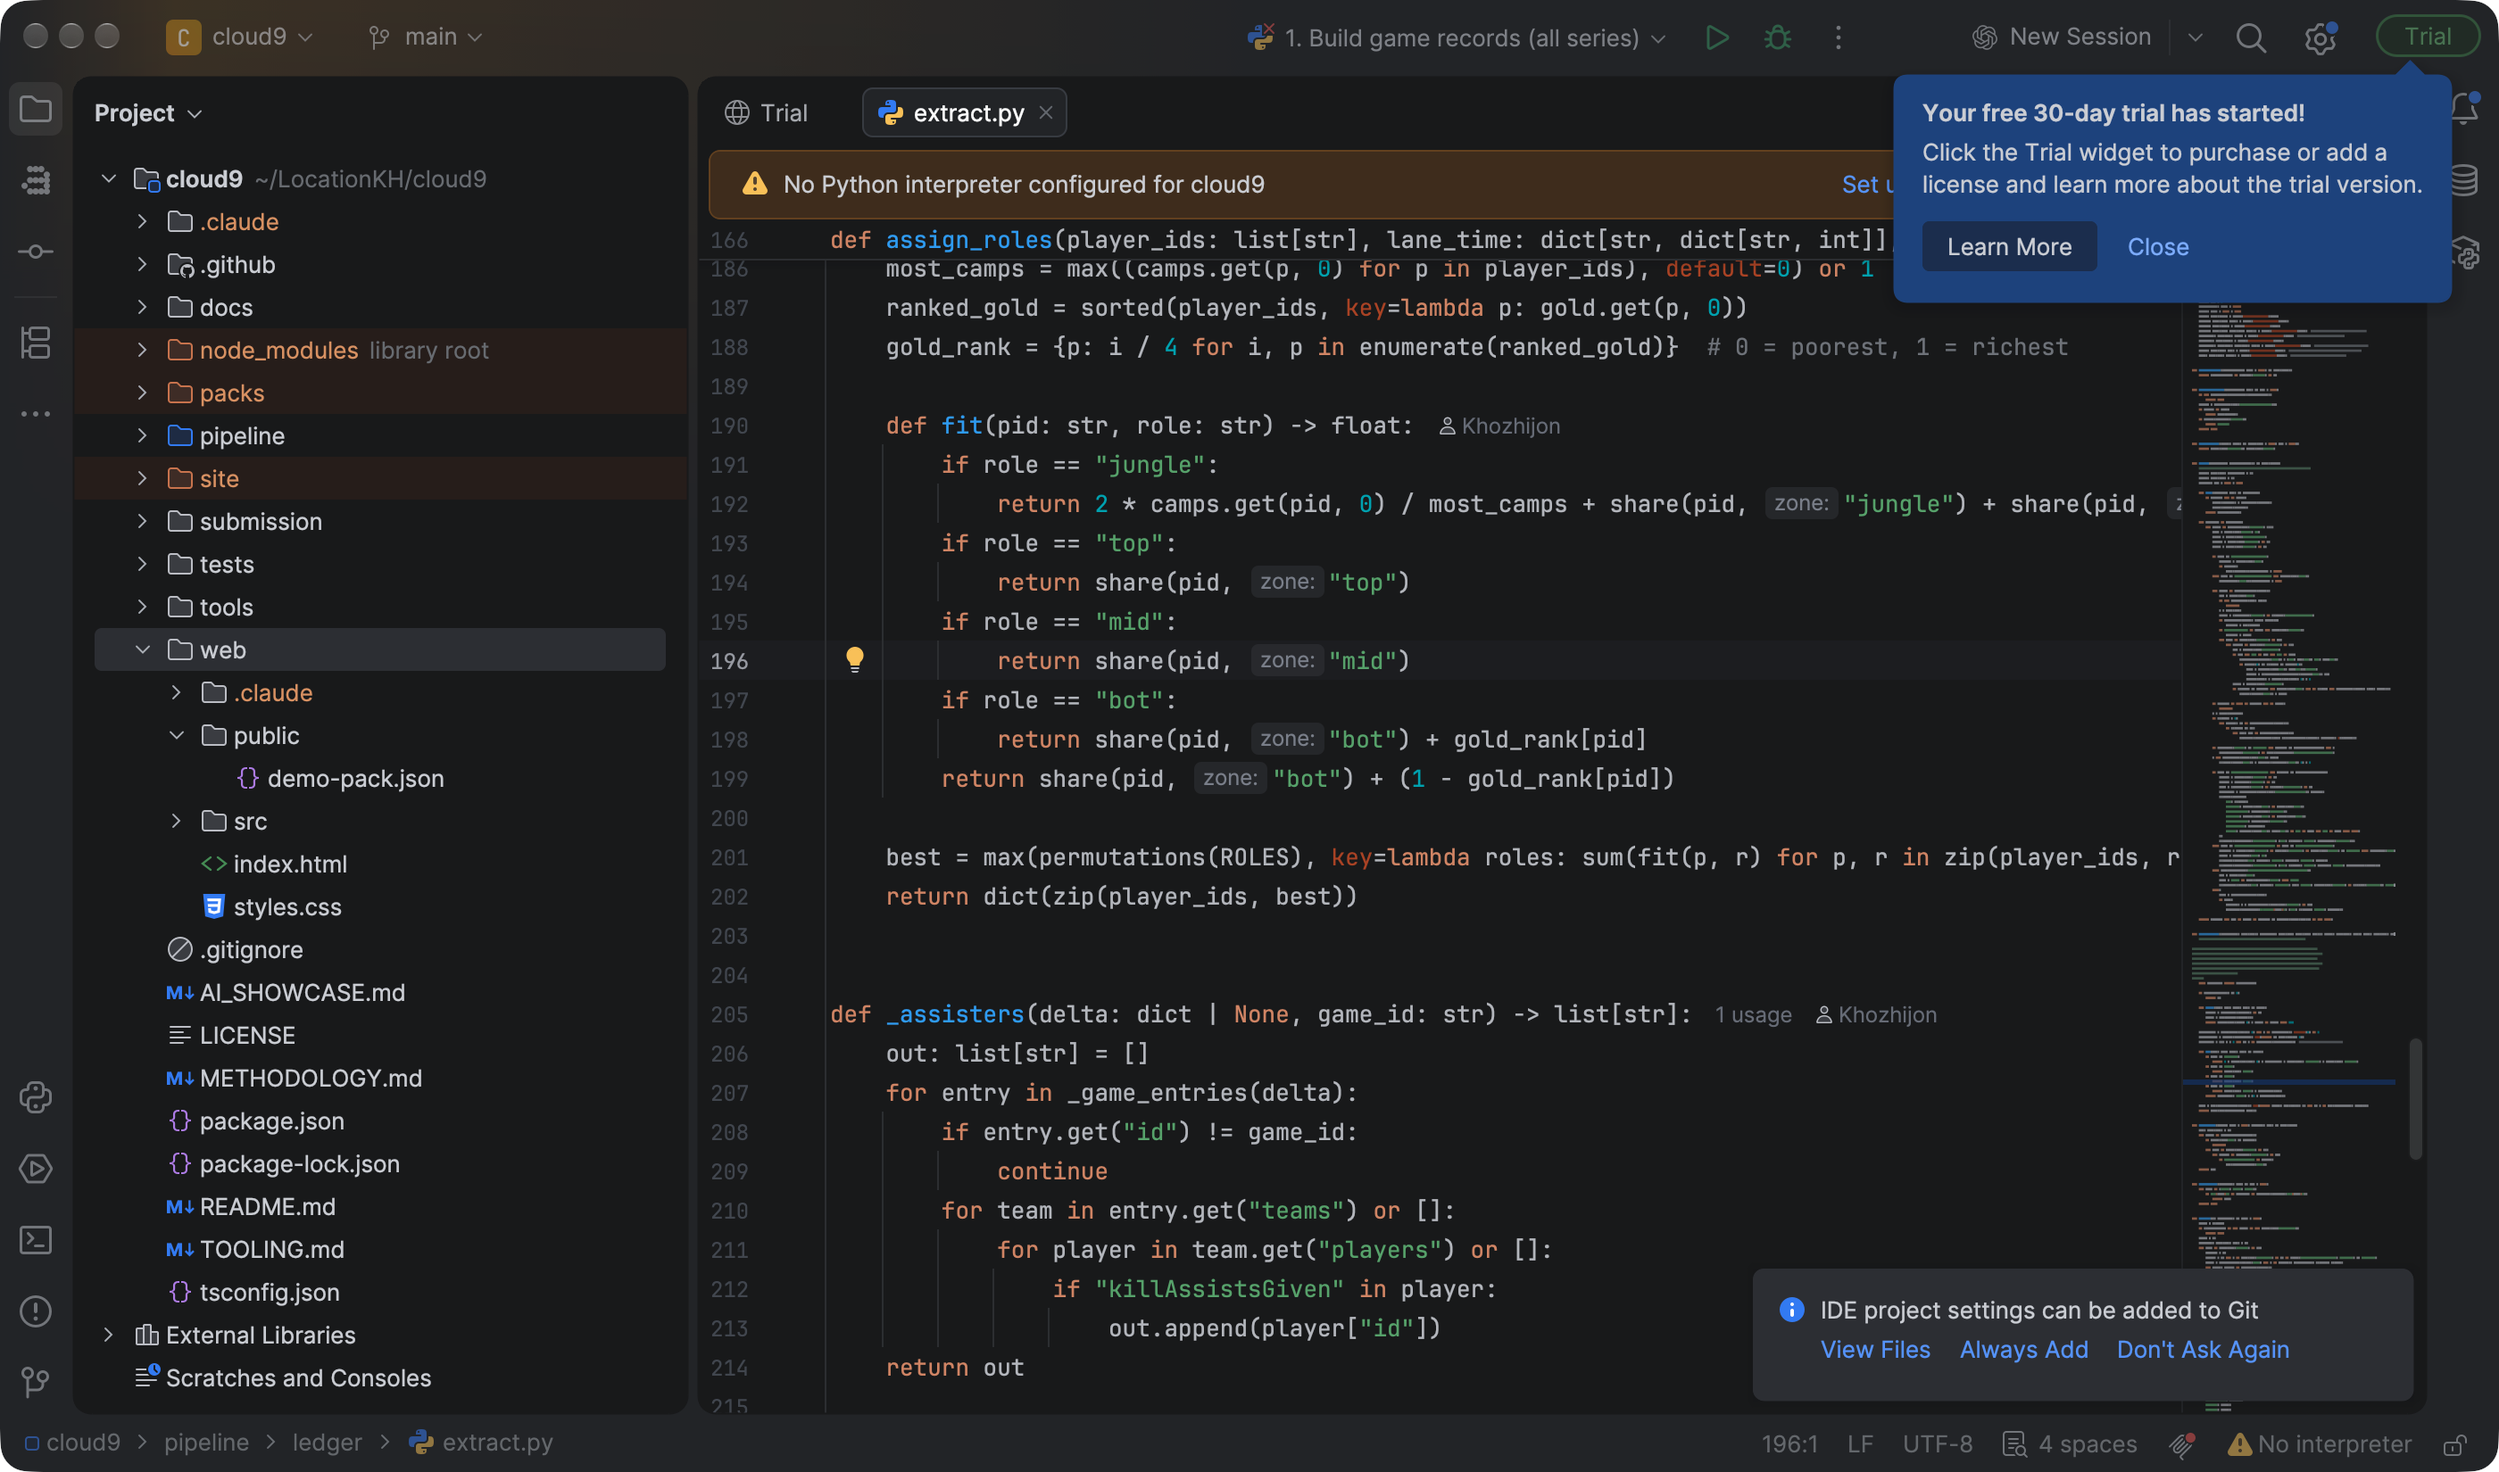
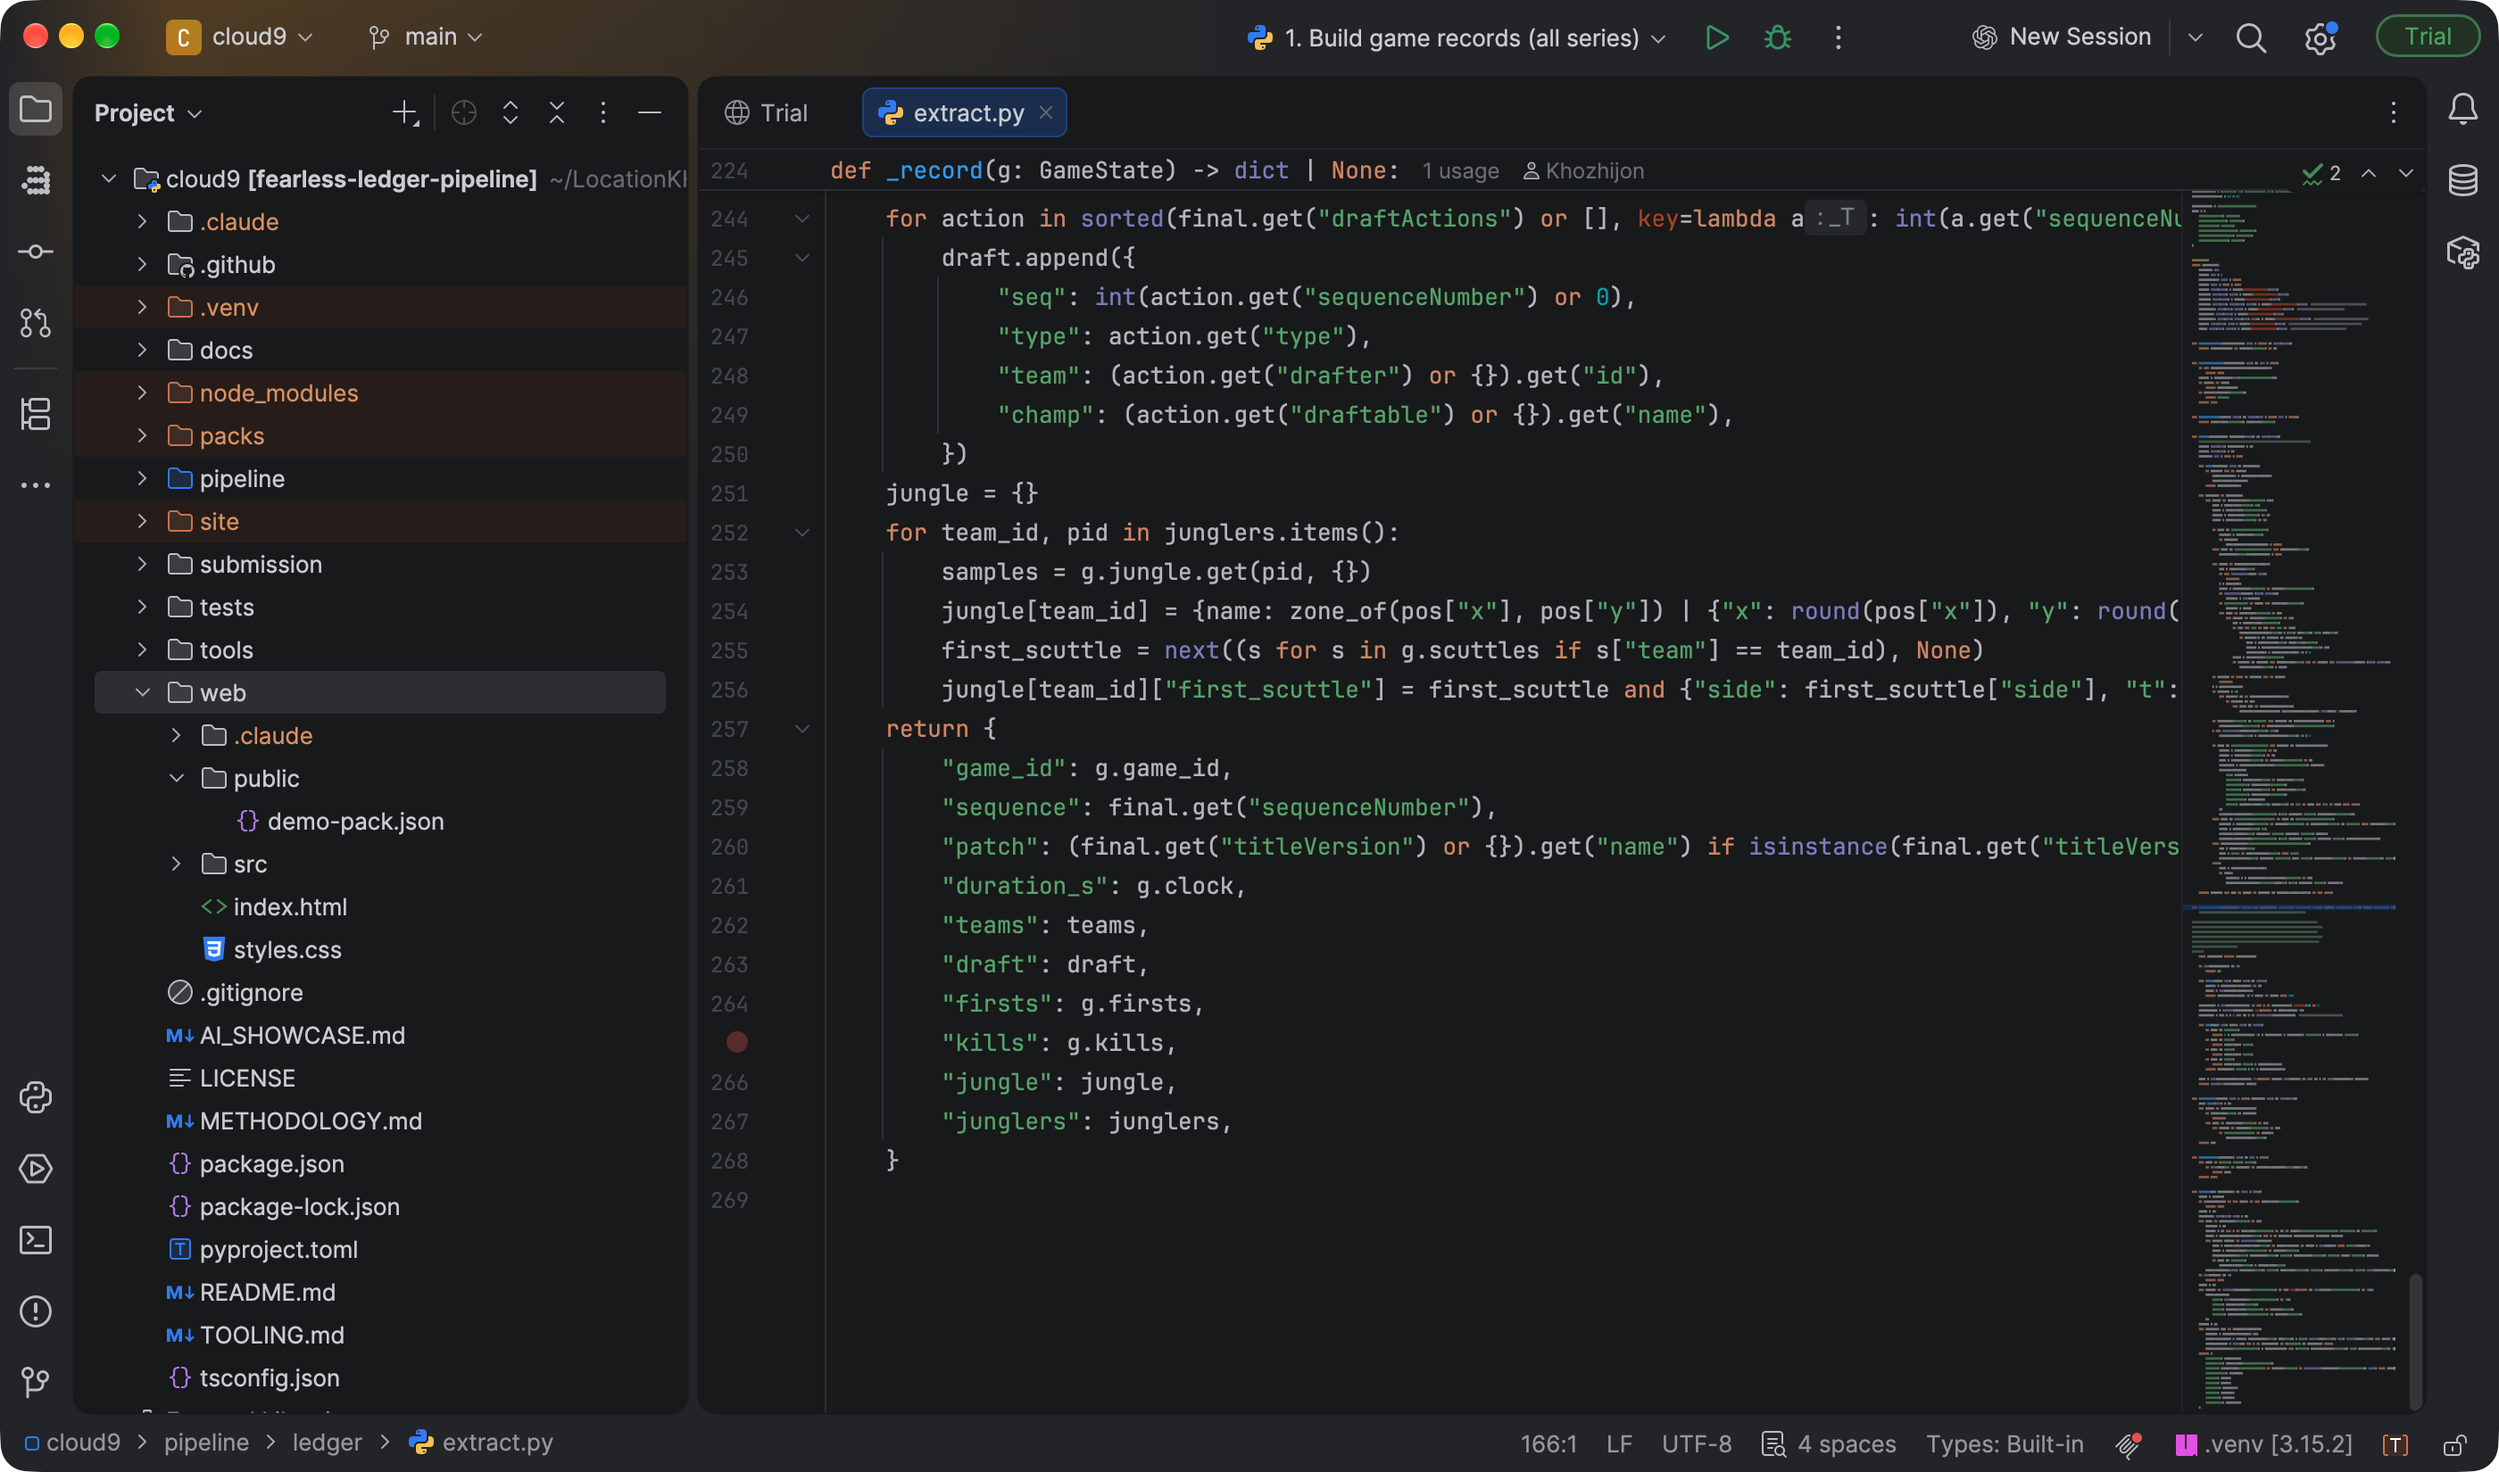
Demo video tooling (narration, recording, mux), PyCharm run screenshot, docs

diff --git a/tools/video/slides.html b/tools/video/slides.html
@@ -1,0 +1,70 @@
+<!doctype html>
+<html lang="en">
+<head>
+<meta charset="utf-8">
+<title>Fearless Ledger slides</title>
+<style>
+  :root { --bg:#0a0f1a; --panel:#111a2a; --line:#24324a; --text:#e6edf7; --muted:#8d9bb3; --accent:#67c6ff; --warn:#ffb454; }
+  * { box-sizing: border-box; }
+  html, body { margin:0; height:100%; background:var(--bg); color:var(--text); font:20px/1.45 ui-sans-serif, system-ui, -apple-system, sans-serif; }
+  section { display:none; height:100vh; padding:56px 72px 120px; flex-direction:column; justify-content:center; gap:22px; }
+  section.on { display:flex; }
+  .logo { width:72px; height:72px; border-radius:16px; background:var(--accent); color:#06121f; font-weight:800; font-size:34px; display:grid; place-items:center; }
+  h1 { font-size:56px; margin:0; letter-spacing:-.01em; }
+  h2 { font-size:38px; margin:0; }
+  p { margin:0; color:var(--muted); font-size:24px; max-width:1000px; }
+  .stats { display:flex; gap:18px; margin-top:12px; }
+  .stats div { background:var(--panel); border:1px solid var(--line); border-radius:12px; padding:14px 20px; }
+  .stats b { display:block; font-size:34px; color:var(--text); }
+  .stats span { color:var(--muted); font-size:17px; }
+  .row { display:flex; gap:28px; align-items:center; }
+  .shot { width:640px; border-radius:12px; border:1px solid var(--line); box-shadow:0 12px 40px rgba(0,0,0,.5); }
+  ol { margin:0; padding-left:26px; font-size:21px; color:var(--text); }
+  li { margin:8px 0; }
+  li small { color:var(--muted); font-size:17px; display:block; }
+  .tag { color:var(--accent); font-weight:700; text-transform:uppercase; letter-spacing:.1em; font-size:15px; }
+  .big { font-size:30px; color:var(--text); }
+  .url { color:var(--accent); font-size:34px; font-weight:700; }
+</style>
+</head>
+<body>
+<section id="title">
+  <div class="row"><div class="logo">FL</div><div><h1>Fearless Ledger</h1><p>Draft and early-macro scouting for Cloud9 Kia's League of Legends coaches</p></div></div>
+  <div class="stats">
+    <div><b>745</b><span>GRID series</span></div>
+    <div><b>1,739</b><span>pro games, 2025–26</span></div>
+    <div><b>142</b><span>Cloud9 Kia games</span></div>
+    <div><b>44</b><span>teams scouted</span></div>
+  </div>
+  <p class="tag">Cloud9 × JetBrains “Sky's The Limit” · Category 2: LoL macro scouting and draft management</p>
+</section>
+<section id="problem">
+  <p class="tag">The problem</p>
+  <h2>Fearless Draft: a champion picked in one game is gone for the rest of the series.</h2>
+  <p class="big">What do they first-pick? What do they ban, and when? What does each player still have in game 4? Where does their jungler go at 3:15?</p>
+  <p>Today a coaching staff answers this with VOD review and a spreadsheet. Fearless Ledger answers it from the official match data, and shows how many games every number rests on.</p>
+</section>
+<section id="built">
+  <p class="tag">How it is built</p>
+  <div class="row">
+    <img class="shot" src="../../submission/pycharm-run.png" alt="PyCharm running the pipeline">
+    <ol>
+      <li>Replay every GRID event feed<small>draft, players, first objectives, early kills, jungle path</small></li>
+      <li>Infer roles from the first 8 minutes<small>inferred jungler takes the first scuttle in 99.5% of games</small></li>
+      <li>Aggregate per team, period and side<small>public demo: counts and rates only</small></li>
+      <li>PyCharm: run configurations, interpreter, inspections<small>35 findings → fixed (docs/pycharm-inspections.md)</small></li>
+    </ol>
+  </div>
+</section>
+<section id="close">
+  <div class="row"><div class="logo">FL</div><h1>Fearless Ledger</h1></div>
+  <p class="url">khozhijon.github.io/fearless-ledger</p>
+  <p class="big">github.com/Khozhijon/fearless-ledger · MIT licence</p>
+  <p>Built with PyCharm and Claude Code. Match data provided by GRID; the data stays local and the demo shows aggregates only. League of Legends is a trademark of Riot Games. Not endorsed by Riot Games, Cloud9 or GRID.</p>
+</section>
+<script>
+  const id = new URLSearchParams(location.search).get('s') || 'title'
+  document.getElementById(id)?.classList.add('on')
+</script>
+</body>
+</html>

diff --git a/TOOLING.md b/TOOLING.md
@@ -11,7 +11,7 @@ feeds into everything the app shows. The `.idea/` folder is committed so the set
 | What | Where | What it did |
 |---|---|---|
 | Project model | `.idea/fearless-ledger-pipeline.iml`, `.idea/modules.xml`, `.idea/misc.xml`, `pyproject.toml` | `pipeline/` is a source root, `pipeline/tests/` a test root, and the derived-data folder `packs/`, `node_modules/`, `site/` and `.venv/` are excluded from indexing. PyCharm picked up `pyproject.toml` and the project's `.venv` (Python 3.15, created with uv) as the interpreter by itself. |
-| Run configurations | `.idea/runConfigurations/*.xml` | One per pipeline step: "1. Build game records" (all 745 series), "1a. Build sample (20 series, for debugging)", "2. Public demo pack (aggregates only)", "3. Local pack (every team, with game lists)", and "Pipeline tests" (unittest). They set `STL_DATA_DIR` to the data clone next to the project, so the licensed data is read in place and never enters the repository. |
+| Run configurations | `.idea/runConfigurations/*.xml` | One per pipeline step: "1. Build game records" (all 745 series), "1a. Build sample (20 series, for debugging)", "2. Public demo pack (aggregates only)", "3. Local pack (every team, with game lists)", and "Pipeline tests" (unittest). They set `STL_DATA_DIR` to the data clone next to the project, so the licensed data is read in place and never enters the repository. The full 745-series build was run from the IDE with this configuration (six worker processes; screenshot `submission/pycharm-run.png`). |
 | Code inspections | `tools/pycharm-inspect.sh`, `.idea/inspectionProfiles/Project_Default.xml`, [`docs/pycharm-inspections.md`](docs/pycharm-inspections.md) | PyCharm's headless inspector (`inspect.sh`) checked the pipeline with the shared profile. The first run found 35 problems, including 25 type errors from tallies that mixed ints, lists and Counters in one dict, a `None` position that could be indexed, and a variable shadowing the module's `main()`. All code findings were fixed (dataclasses, guards, renames) and the run repeated until only three deliberate wording notes remained. The aggregate output was checked to be identical before and after. The JSON reports are in `docs/inspections-latest/`. |
 | Inspection profile | `.idea/inspectionProfiles/` | The project profile is shared (PEP 8 on, line length relaxed to the project's style, spell-checking off because champion and player names are not dictionary words). |
 

diff --git a/AI_SHOWCASE.md b/AI_SHOWCASE.md
@@ -37,7 +37,8 @@ lineup, and former players are marked in the report.
 
 ## 4. Use the IDE's inspections as a second reviewer
 
-PyCharm opened the project and its headless inspector was run with a shared profile
+PyCharm opened the project, detected its `pyproject.toml` and uv `.venv` as the interpreter, and
+ran the full 745-series build from the shared run configuration. Its headless inspector was run with a shared profile
 (`tools/pycharm-inspect.sh`). Its first report had 35 findings; 25 were type errors from tallies
 that mixed ints, lists and Counters in one dict, which the agent had written for speed. They became
 three dataclasses, a possibly-`None` position index got a guard, and a variable shadowing `main()`
